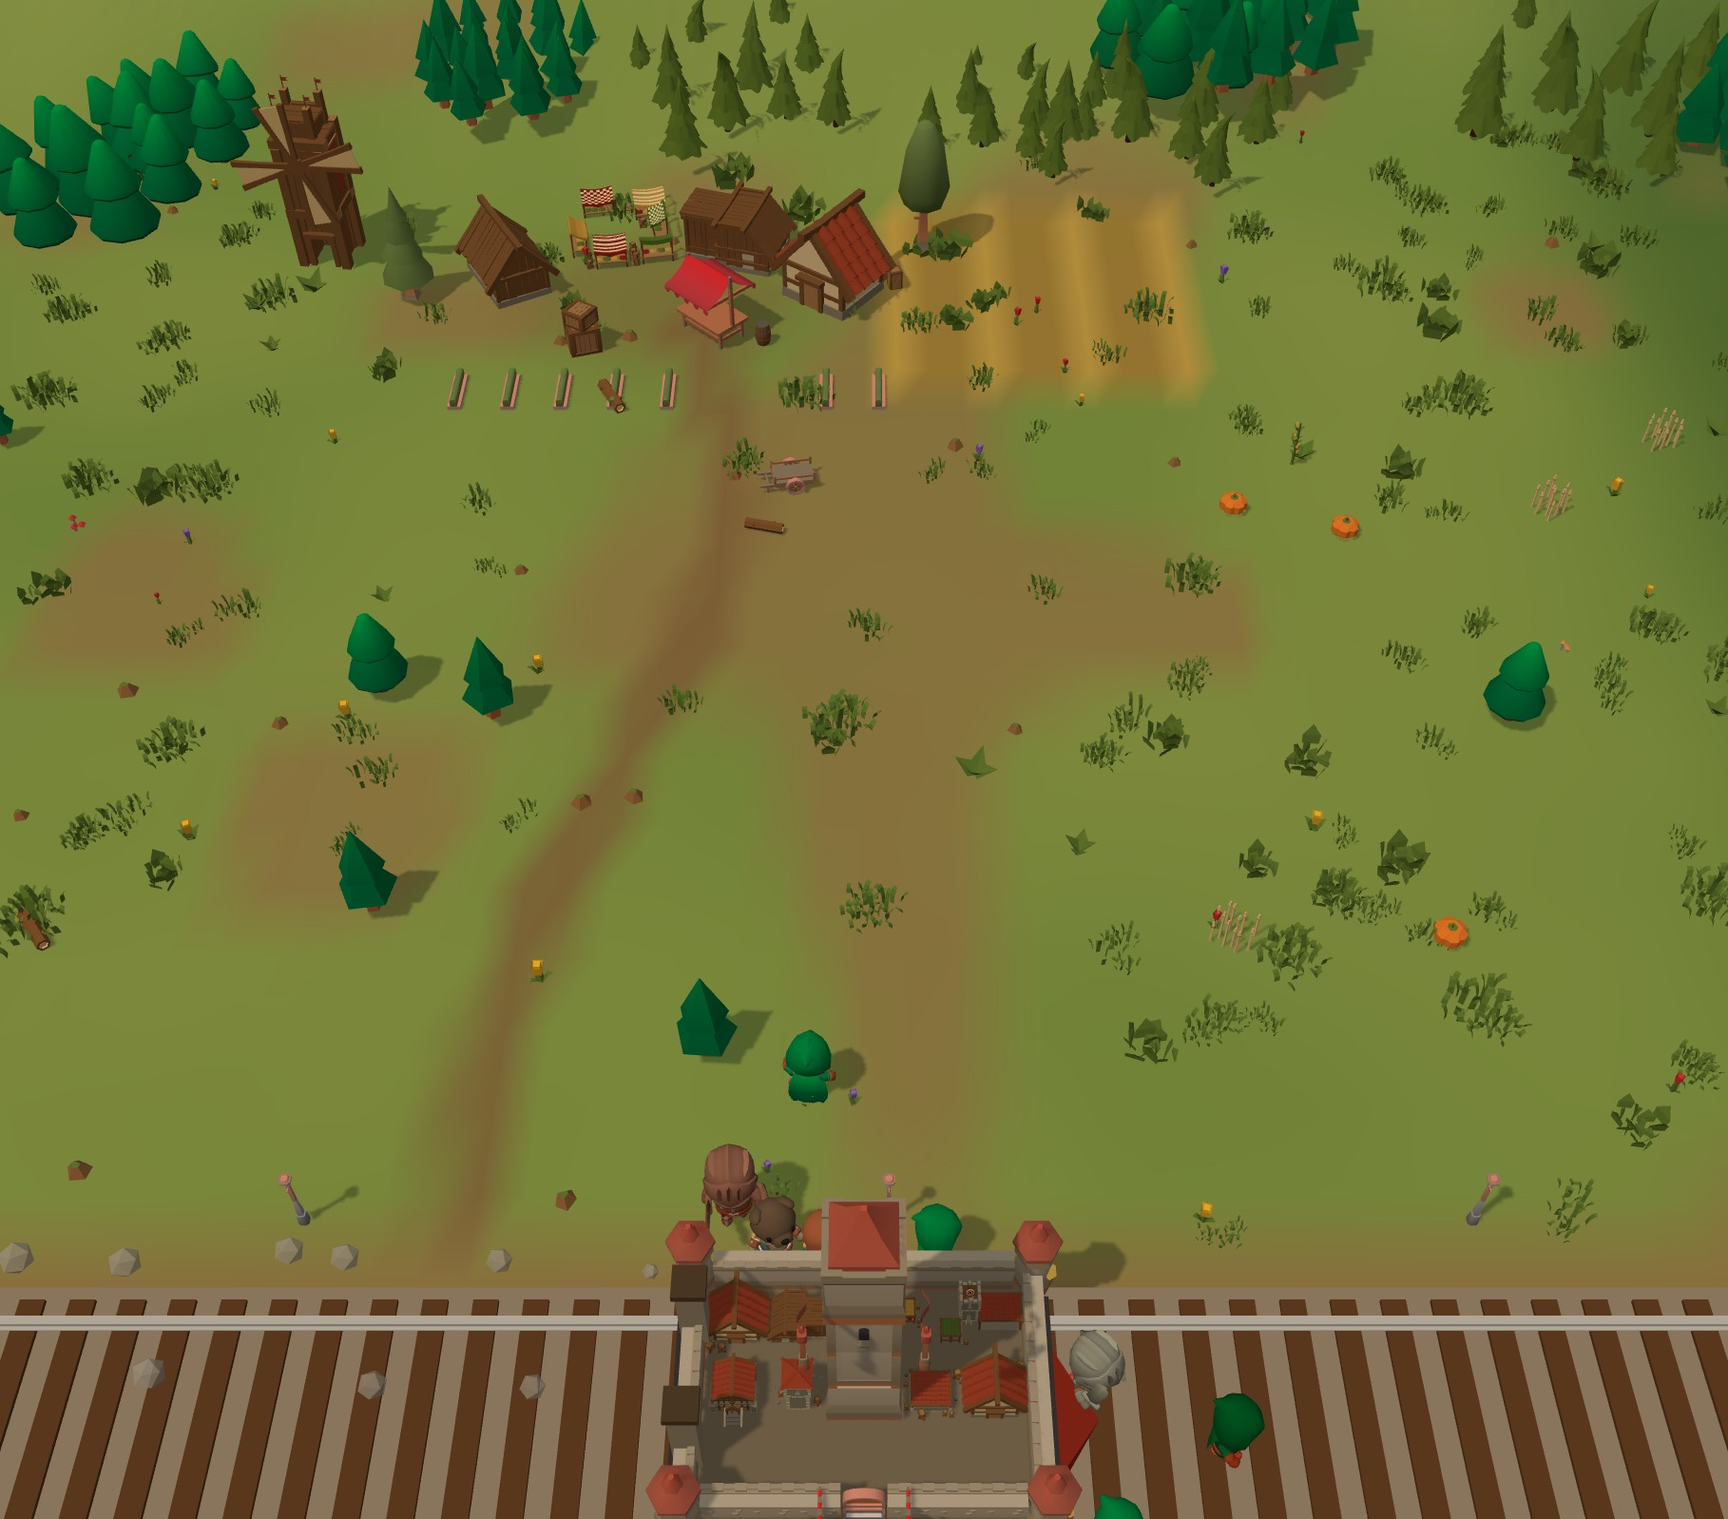
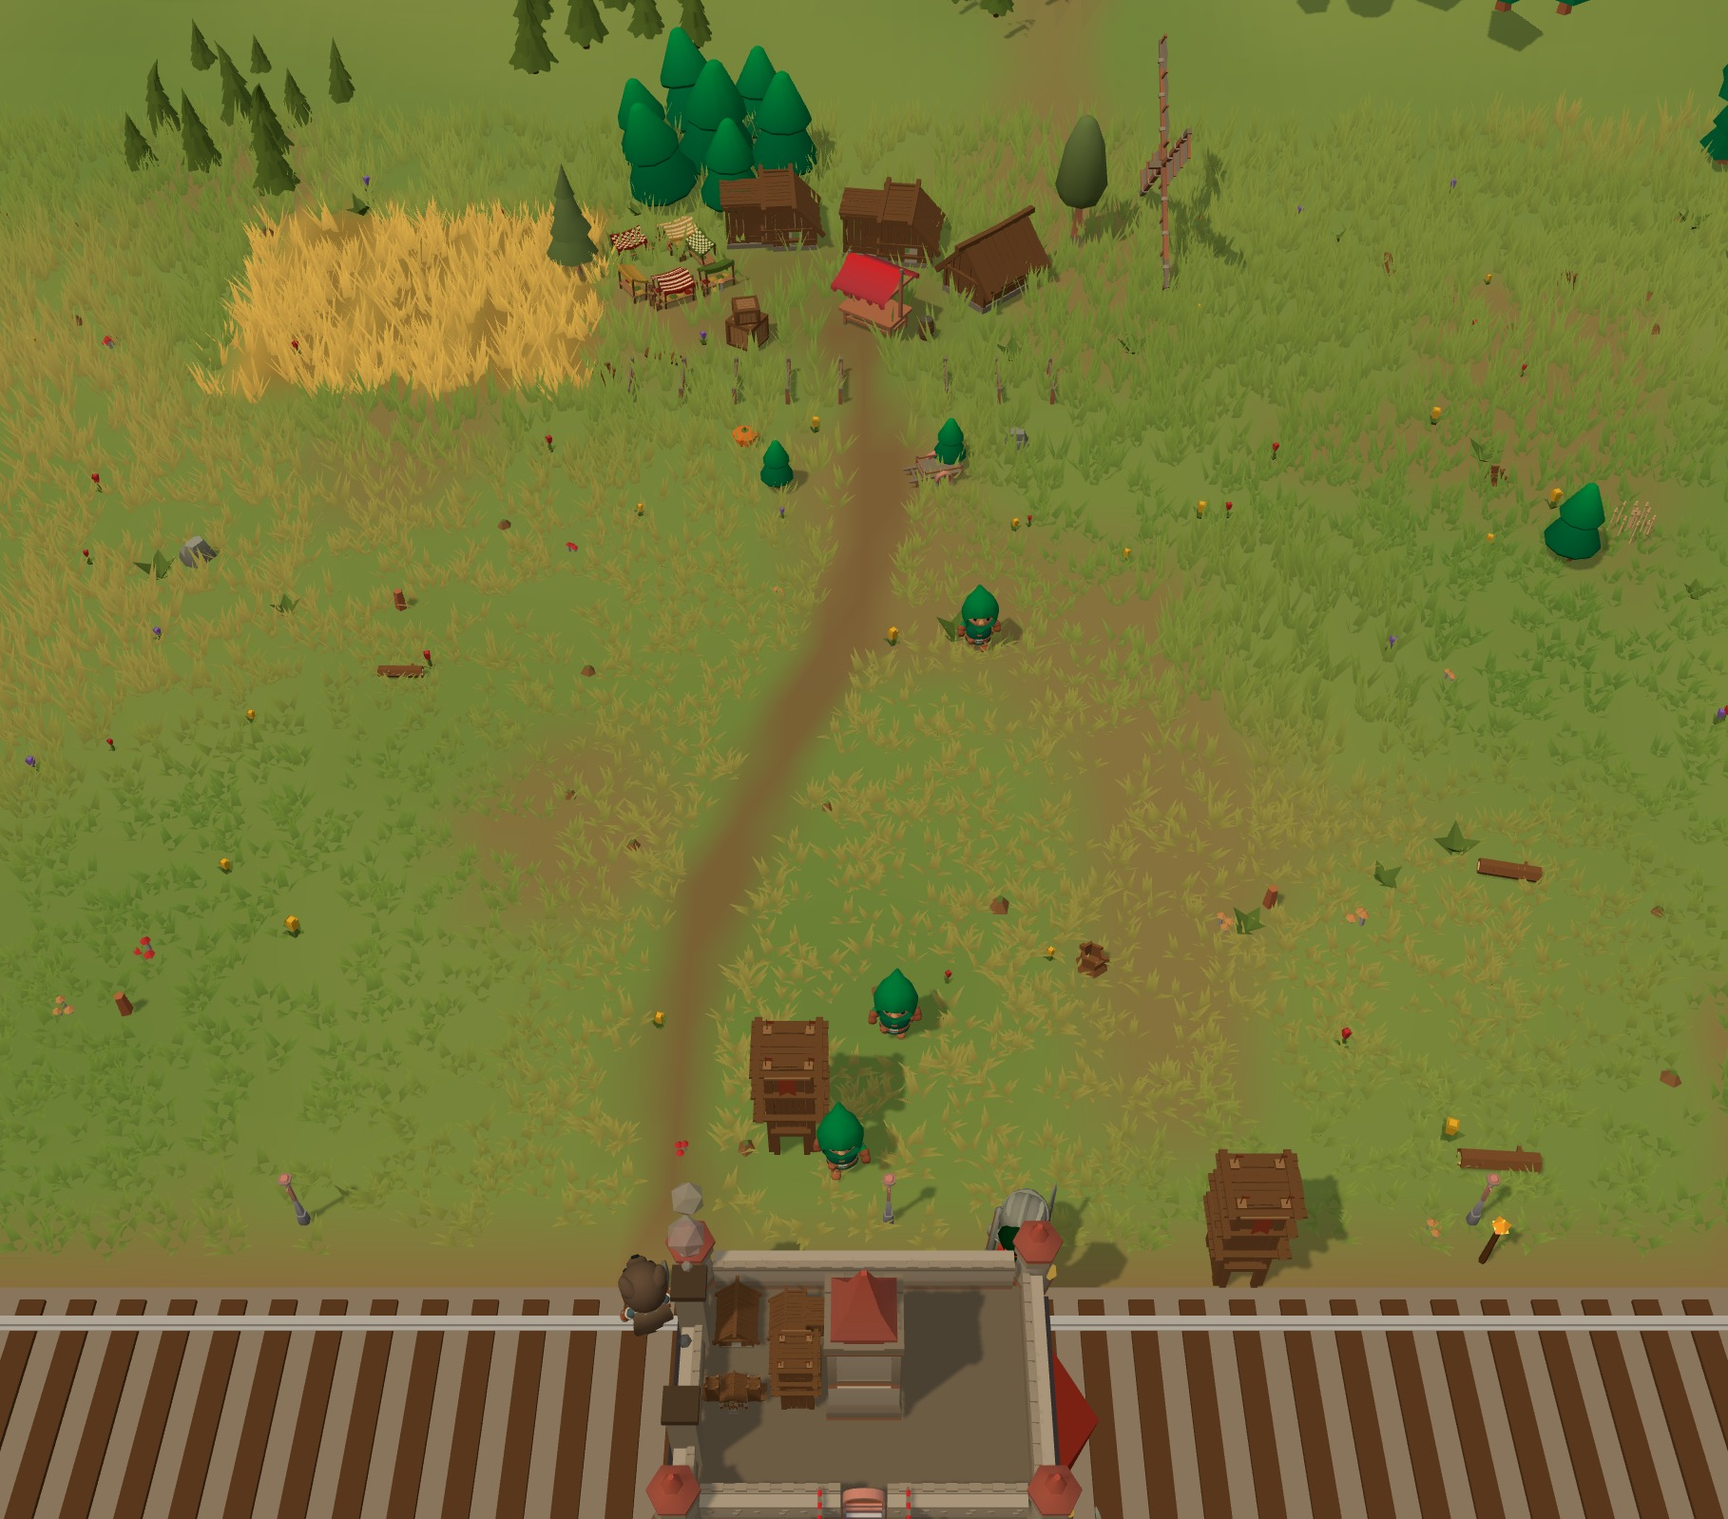
Full meadow: swaying instanced grass carpet
- New Grass (src/render/grass.ts): ~33k blade clumps of 7 triangles in one InstancedMesh,
  wind sway in the vertex shader, upward normals on both faces so blades never go black
- Short around the camp so units stay readable, taller and drier towards the edges and in
  meadow patches, golden wheat in crop fields; tracks, ploughed strips and village yards
  stay bare; sparse dry tufts in canyons
- Placement cached per chunk, five chunks around the camera with the outer two thinned;
  half density when shadows are off on weak devices
- Kenney grass tufts retired: the scene drops from ~1.1M to ~0.75M triangles while the
  ground is far more covered
- Updated screenshots and a new meadow shot

diff --git a/src/render/grass.ts b/src/render/grass.ts
@@ -1,0 +1,179 @@
+import * as THREE from 'three';
+import { BALANCE } from '../data/balance';
+import { hash01 } from '../sim/rng';
+import { chunkCenter } from '../sim/world';
+import { chunkLayout, noise, smooth, terrainHeight, terrainWeight, trackX } from './terrain';
+
+// A meadow carpet: thousands of cheap blade clumps (7 triangles each) in one InstancedMesh, swaying in the wind.
+// Short around the camp so units stay readable, taller towards the edges and in patches, golden in the wheat fields.
+// Placement is a pure function of seed and position, cached per chunk; weak devices get half the blades.
+
+const L = BALANCE.world.chunkLength;
+const PER_CHUNK = 11000; // clumps in a full-density chunk
+const RADIUS = 2; // chunks either side of the camera
+const RAIL = 3.8;
+
+function clumpGeometry(): THREE.BufferGeometry {
+  const pos: number[] = [];
+  const col: number[] = [];
+  const blades = 7;
+  for (let i = 0; i < blades; i++) {
+    const a = (i / blades) * Math.PI * 2 + i * 1.3;
+    const r = 0.06 + (i % 3) * 0.05;
+    const bx = Math.cos(a) * r;
+    const bz = Math.sin(a) * r;
+    const w = 0.09;
+    // Base edge across the blade, tip leaning outwards.
+    const px = -Math.sin(a) * w;
+    const pz = Math.cos(a) * w;
+    const lean = 0.22 + (i % 2) * 0.14;
+    const h = 0.75 + ((i * 37) % 10) / 40;
+    pos.push(bx - px, 0, bz - pz, bx + px, 0, bz + pz, bx + Math.cos(a) * lean, h, bz + Math.sin(a) * lean);
+    col.push(0.72, 0.72, 0.72, 0.72, 0.72, 0.72, 1.12, 1.12, 1.02);
+  }
+  const g = new THREE.BufferGeometry();
+  g.setAttribute('position', new THREE.Float32BufferAttribute(pos, 3));
+  g.setAttribute('color', new THREE.Float32BufferAttribute(col, 3));
+  // Normals straight up: blades light like the ground they grow from, with no dark backsides.
+  g.setAttribute('normal', new THREE.Float32BufferAttribute(new Array(pos.length).fill(0).map((_, k) => (k % 3 === 1 ? 1 : 0)), 3));
+  return g;
+}
+
+const COL = {
+  greenA: new THREE.Color(0x5f8a3c),
+  greenB: new THREE.Color(0x86a04e),
+  forest: new THREE.Color(0x4a6e34),
+  dry: new THREE.Color(0xa49a56),
+  wheat: new THREE.Color(0xd2b25a),
+  sand: new THREE.Color(0x9c9060),
+};
+
+interface ChunkGrass {
+  m: Float32Array; // 16 per clump
+  c: Float32Array; // 3 per clump
+  n: number;
+}
+
+export class Grass {
+  readonly mesh: THREE.InstancedMesh;
+  private uniforms = { uTime: { value: 0 } };
+  private cache = new Map<string, ChunkGrass>();
+  private key = '';
+
+  constructor(scene: THREE.Scene) {
+    const mat = new THREE.MeshLambertMaterial({ vertexColors: true, side: THREE.DoubleSide });
+    mat.onBeforeCompile = (shader) => {
+      shader.uniforms.uTime = this.uniforms.uTime;
+      shader.vertexShader = shader.vertexShader
+        .replace('#include <common>', '#include <common>\nuniform float uTime;')
+        .replace(
+          '#include <begin_vertex>',
+          `#include <begin_vertex>
+#ifdef USE_INSTANCING
+  vec3 root = instanceMatrix[3].xyz;
+  float gust = sin(uTime * 1.6 + root.x * 0.32 + root.z * 0.21) * 0.6 + sin(uTime * 3.1 + root.x * 1.3 - root.z * 0.7) * 0.25;
+  float bend = position.y * position.y;
+  transformed.x += gust * bend * 0.22;
+  transformed.z += gust * bend * 0.08;
+#endif`,
+        );
+      // Both faces of a blade keep the upward normal (three would flip it on back faces and turn them black).
+      shader.fragmentShader = shader.fragmentShader.replace(
+        '#include <normal_fragment_begin>',
+        'float faceDirection = 1.0;\nvec3 normal = normalize( vNormal );\nvec3 nonPerturbedNormal = normal;',
+      );
+    };
+    this.mesh = new THREE.InstancedMesh(clumpGeometry(), mat, Math.ceil(PER_CHUNK * (2 * RADIUS + 1)));
+    this.mesh.instanceMatrix.setUsage(THREE.DynamicDrawUsage);
+    this.mesh.instanceColor = new THREE.InstancedBufferAttribute(new Float32Array(this.mesh.instanceMatrix.count * 3), 3);
+    this.mesh.count = 0;
+    this.mesh.frustumCulled = false;
+    this.mesh.receiveShadow = true;
+    scene.add(this.mesh);
+  }
+
+  /** Refill when the camera crosses into another chunk (or the density changes); sway every frame. */
+  update(seed: number, camX: number, time: number, low: boolean): void {
+    this.uniforms.uTime.value = time;
+    const c0 = Math.round(camX / L);
+    const key = `${seed}:${c0}:${low}`;
+    if (key === this.key) return;
+    this.key = key;
+    if (this.cache.size > 24) this.cache.clear();
+    const mats = this.mesh.instanceMatrix.array as Float32Array;
+    const cols = this.mesh.instanceColor!.array as Float32Array;
+    let n = 0;
+    for (let k = c0 - RADIUS; k <= c0 + RADIUS; k++) {
+      const share = (Math.abs(k - c0) <= 1 ? 1 : 0.4) * (low ? 0.5 : 1);
+      const g = this.chunk(seed, k);
+      const take = Math.min(g.n, Math.floor(g.n * share));
+      // Clumps are stored in random order, so the first `take` are an even thinning.
+      mats.set(g.m.subarray(0, take * 16), n * 16);
+      cols.set(g.c.subarray(0, take * 3), n * 3);
+      n += take;
+    }
+    this.mesh.count = n;
+    this.mesh.instanceMatrix.needsUpdate = true;
+    this.mesh.instanceColor!.needsUpdate = true;
+  }
+
+  private chunk(seed: number, chunk: number): ChunkGrass {
+    const key = `${seed}:${chunk}`;
+    const hit = this.cache.get(key);
+    if (hit) return hit;
+    const m = new Float32Array(PER_CHUNK * 16);
+    const c = new Float32Array(PER_CHUNK * 3);
+    const x0 = chunkCenter(chunk) - L / 2;
+    const lay = chunkLayout(seed, chunk);
+    const v = lay.village;
+    const mat = new THREE.Matrix4();
+    const q = new THREE.Quaternion();
+    const up = new THREE.Vector3(0, 1, 0);
+    const p = new THREE.Vector3();
+    const s = new THREE.Vector3();
+    const col = new THREE.Color();
+    let n = 0;
+    for (let i = 0; i < PER_CHUNK; i++) {
+      const h = (salt: number) => hash01(seed, chunk, i, salt + 200);
+      const x = x0 + h(1) * L;
+      const z = (h(2) * 2 - 1) * 46;
+      const az = Math.abs(z);
+      if (az < RAIL) continue;
+      const cw = terrainWeight(seed, x, 'canyon');
+      if (cw > 0.5 && az > BALANCE.world.canyonCliffZ - 0.5) continue;
+      if (cw > 0.5 && h(3) > 0.45) continue; // thinner, dry tufts on the sandy canyon floor
+      // Keep the village track and the ploughed strips bare, thin out the trodden yard.
+      if (v && z > v.z + 1 && z < -RAIL && Math.abs(x - trackX(v, z)) < 1) continue;
+      if (v && Math.hypot(x - v.x, (z - v.z) * 1.3) < 6 && h(4) > 0.25) continue;
+      const field = lay.fields.find((f) => x >= Math.min(f.x0, f.x1) && x <= Math.max(f.x0, f.x1) && z >= f.z0 && z <= f.z1);
+      if (field && !field.crop) continue;
+      // Height: short in the play area, tall at the edges and in meadow patches; ripe wheat in crop fields.
+      const patch = az > 9 ? smooth((noise(seed, x, z, 11) - 0.6) * 5) : 0;
+      const tall = Math.max(smooth((az - 22) / 12), patch);
+      let height = 0.3 + h(5) * 0.2 + tall * (0.55 + h(6) * 0.45);
+      const forest = terrainWeight(seed, x, 'forest');
+      col.copy(COL.greenA).lerp(COL.greenB, noise(seed, x + 30, z, 7) * 0.8 + h(7) * 0.2);
+      if (forest > 0) col.lerp(COL.forest, forest * 0.8);
+      col.lerp(COL.dry, smooth((noise(seed, x, z - 40, 13) - 0.55) * 4) * 0.7 + tall * 0.15);
+      if (cw > 0) col.lerp(COL.sand, cw);
+      if (field) {
+        height = 0.95 + h(5) * 0.3;
+        col.copy(COL.wheat).multiplyScalar(0.9 + h(7) * 0.2);
+      }
+      const y = terrainHeight(seed, x, z) - 0.02;
+      p.set(x, y, z);
+      q.setFromAxisAngle(up, h(8) * Math.PI * 2);
+      const w = 0.8 + h(9) * 0.5 + tall * 0.3;
+      s.set(w, height, w);
+      mat.compose(p, q, s);
+      mat.toArray(m, n * 16);
+      c[n * 3] = col.r;
+      c[n * 3 + 1] = col.g;
+      c[n * 3 + 2] = col.b;
+      n++;
+    }
+    const out = { m, c, n };
+    this.cache.set(key, out);
+    return out;
+  }
+}

diff --git a/src/render/renderer.ts b/src/render/renderer.ts
@@ -4,6 +4,7 @@ import { isLit, lights, slotCount, SLOT_POS, type Sim } from '../sim/sim';
 import type { GameEvent, GameState, Vec } from '../sim/types';
 import { hash01 } from '../sim/rng';
 import { chunkCenter, chunkTerrain } from '../sim/world';
+import { Grass } from './grass';
 import { chunkLayout, Terrain, terrainHeight, trackX } from './terrain';
 import {
   castleGeometry,
@@ -209,6 +210,7 @@ export class GameRenderer {
   private sun: THREE.DirectionalLight;
   private pointLights: THREE.PointLight[] = [];
   private terrain: Terrain;
+  private grass: Grass;
   private decor = new Map<DecorName, Instanced>();
   private decorKey = '';
   private crops: Instanced[] = [];
@@ -274,6 +276,7 @@ export class GameRenderer {
     this.scene.fog = new THREE.Fog(0xaabfc6, 60, 140);
 
     this.terrain = new Terrain(this.scene);
+    this.grass = new Grass(this.scene);
     this.hemi = new THREE.HemisphereLight(0xf0e6d4, 0x5e4c34, 1.6);
     this.scene.add(this.hemi);
     this.sun = new THREE.DirectionalLight(0xffe4bc, 1.9);
@@ -730,6 +733,7 @@ export class GameRenderer {
     this.railway.position.x = Math.round(t.x);
 
     this.updateGround(s.seed, t.x);
+    this.grass.update(s.seed, t.x, this.time, !this.renderer.shadowMap.enabled);
 
     // Castle.
     const c = s.castle;
@@ -972,14 +976,15 @@ export class GameRenderer {
     for (const v of this.decor.values()) v.begin();
     const L = BALANCE.world.chunkLength;
     const pick: [DecorName, number][] = [
-      ['grass', 30], ['grassLarge', 14], ['grassLeafs', 10], ['flowerRed', 5], ['flowerYellow', 6], ['flowerPurple', 5],
+      ['flowerRed', 5], ['flowerYellow', 6], ['flowerPurple', 5],
       ['mushroomRed', 2], ['mushroomTan', 2], ['bushSmall', 6], ['pebble', 8], ['log', 1], ['stumpOld', 1],
     ];
     const total = pick.reduce((a, [, w]) => a + w, 0);
     for (let i = 0; i < 7; i++) {
       const chunk = first + i;
       const terrain = chunkTerrain(seed, chunk);
-      const count = terrain === 'forest' ? 520 : terrain === 'plains' ? 460 : 140;
+      // The meadow itself is the Grass carpet; these are the flowers, mushrooms and pebbles in it.
+      const count = terrain === 'forest' ? 220 : terrain === 'plains' ? 240 : 60;
       const maxZ = terrain === 'canyon' ? BALANCE.world.canyonCliffZ - 0.5 : 46;
       const x0 = chunkCenter(chunk) - L / 2;
       for (let k = 0; k < count; k++) {
@@ -988,7 +993,7 @@ export class GameRenderer {
         if (Math.abs(z) < 3.8) continue; // keep the railway bed clean
         const x = x0 + h(2) * L;
         let r = h(3) * total;
-        let name: DecorName = 'grass';
+        let name: DecorName = 'pebble';
         for (const [n, w] of pick) {
           r -= w;
           if (r < 0) {
@@ -999,14 +1004,7 @@ export class GameRenderer {
         if (terrain === 'canyon' && (name.startsWith('flower') || name.startsWith('mushroom'))) name = 'pebble';
         if (terrain === 'forest' && name === 'flowerYellow') name = 'mushroomTan';
         const sc = 0.75 + h(4) * 0.6;
-        const inst = this.decor.get(name)!;
-        // Grass grows in tufts of a few blades so it reads as patches, not noise.
-        const tuft = name.startsWith('grass') ? 3 : 1;
-        for (let j = 0; j < tuft; j++) {
-          const ox = j ? (h(6 + j) - 0.5) * 0.9 : 0;
-          const oz = j ? (h(9 + j) - 0.5) * 0.9 : 0;
-          inst.add(x + ox, terrainHeight(seed, x + ox, z + oz), z + oz, h(5) * Math.PI * 2 + j, sc * (1 - j * 0.15), sc * (1 - j * 0.15), sc * (1 - j * 0.15), 0xffffff);
-        }
+        this.decor.get(name)!.add(x, terrainHeight(seed, x, z), z, h(5) * Math.PI * 2, sc, sc, sc, 0xffffff);
       }
     }
     for (const v of this.decor.values()) v.end();

diff --git a/src/render/terrain.ts b/src/render/terrain.ts
@@ -14,7 +14,7 @@ const SEG_Z = 75;
 const PLAY_Z = 40; // flat area: monsters spawn at |z| = 37
 const RAIL_Z = 3.4;
 
-function smooth(t: number): number {
+export function smooth(t: number): number {
   const c = Math.min(1, Math.max(0, t));
   return c * c * (3 - 2 * c);
 }
@@ -35,7 +35,7 @@ export function noise(seed: number, x: number, z: number, scale: number): number
 }
 
 /** How much the ground at x is of one terrain type, blended over 8 units around chunk borders. */
-function terrainWeight(seed: number, x: number, type: TerrainType): number {
+export function terrainWeight(seed: number, x: number, type: TerrainType): number {
   const c = Math.round(x / L);
   const here = chunkTerrain(seed, c) === type ? 1 : 0;
   const edge = x - (chunkCenter(c) - L / 2);

diff --git a/src/render/models.ts b/src/render/models.ts
@@ -31,9 +31,6 @@ export type PropName =
   | 'groveB';
 
 export type DecorName =
-  | 'grass'
-  | 'grassLarge'
-  | 'grassLeafs'
   | 'flowerRed'
   | 'flowerYellow'
   | 'flowerPurple'
@@ -111,9 +108,6 @@ export interface Models {
 
 // Kenney Nature Kit pieces, sized for the scene.
 const DECOR_SIZE: Record<DecorName, ['h' | 'w', number]> = {
-  grass: ['h', 0.5],
-  grassLarge: ['h', 0.75],
-  grassLeafs: ['h', 0.55],
   flowerRed: ['h', 0.45],
   flowerYellow: ['h', 0.45],
   flowerPurple: ['h', 0.45],

diff --git a/public/sw.js b/public/sw.js
@@ -1,6 +1,6 @@
 // Offline cache (GDD v1.2 §18): pages are network-first so updates arrive, everything else is cache-first.
 // After the first full load the page tells us every asset it used, so the game then opens with no network.
-const CACHE = 'thanhtri-v4';
+const CACHE = 'thanhtri-v5';
 
 self.addEventListener('install', (event) => {
   event.waitUntil(caches.open(CACHE).then((c) => c.addAll(['./', './index.html', './manifest.webmanifest'])));

diff --git a/docs/TONG_QUAN.md b/docs/TONG_QUAN.md
@@ -188,7 +188,7 @@ Tòa thành là "pháo đài trên đường ray": sàn gỗ có bánh tàu, tư
 một tầng) và mỗi phòng là một ngôi nhà nhỏ trên sàn (gỗ ở tier 1, đá ở tier 2); ống khói đá nhả khói khi chạy. Tông
 màu trung cổ: cỏ ô-liu, đất nâu, gỗ sẫm, đá xám, mái đỏ gỉ; giao diện gỗ – da – viền đồng. Ngoài đồng có cối xay gió,
 ruộng lúa, mỏ đá, xác máy công thành; mỗi đoạn đường có một làng nhỏ với ruộng cày, ruộng lúa và đường đất
-xuống đường ray, cùng tàn tích tường thành cũ. Quân và quái không đi xuyên tường gỗ, vách đá hay lâu đài (kể cả khi
+xuống đường ray, cùng tàn tích tường thành cũ. Đồng cỏ phủ kín, lay theo gió (thấp quanh trại, cao ra xa, ruộng lúa vàng; máy yếu giảm một nửa). Quân và quái không đi xuyên tường gỗ, vách đá hay lâu đài (kể cả khi
 lâu đài đang chạy); cung thủ đứng sau lỗ châu mai trên tường. Ảnh chụp: [docs/screenshots](screenshots). Đêm có ánh trăng xanh, vùng sáng ấm, đuốc bập bùng; giao tranh có tên bay, chớp
 sáng khi trúng đòn, xác ngã. Giao diện cố tình ít chữ: biểu tượng và số, giải thích nằm trong tooltip. KayKit (Kay
 Lousberg) cho nhân vật, quái, cây, đá, đồi núi; Kenney (Nature, Castle, Fantasy Town Kit) cho cỏ, hoa, ruộng, tường

diff --git a/CREDITS.md b/CREDITS.md
@@ -23,7 +23,7 @@ Kenney!
 
 | Files used | Used in game as |
 | --- | --- |
-| `grass`, `grass_large`, `grass_leafs`, `flower_redA`, `flower_yellowA`, `flower_purpleA`, `mushroom_redGroup`, `mushroom_tanGroup`, `plant_bushSmall`, `rock_smallA`, `log`, `stump_old`, `campfire_logs` | Ground decoration (grass, flowers, mushrooms, pebbles, logs) |
+| `flower_redA`, `flower_yellowA`, `flower_purpleA`, `mushroom_redGroup`, `mushroom_tanGroup`, `plant_bushSmall`, `rock_smallA`, `log`, `stump_old`, `campfire_logs` | Ground decoration (flowers, mushrooms, pebbles, logs) |
 | `crop_pumpkin`, `crops_wheatStageB`, `crops_cornStageD` | Food fields (the food resource nodes) |
 
 ## Kenney Castle Kit and Fantasy Town Kit by Kenney
@@ -62,5 +62,5 @@ meshes so crowds can be drawn with instancing. To rebuild from the original down
 
 ## Everything else
 
-The ground terrain (with its ploughed fields, wheat and village tracks), railway, torches, the castle's timber deck,
+The ground terrain (with its ploughed fields and village tracks), the swaying meadow grass and wheat, railway, torches, the castle's timber deck,
 chimneys and wheels, effects, UI and sounds are made in code for this project. Built with [three.js](https://threejs.org) (MIT) and [Vite](https://vite.dev) (MIT).

diff --git a/README.md b/README.md
@@ -73,6 +73,8 @@ lên sàn thành. Lệnh tay đè lên việc tự động cho tới khi bấm *
   ngôi nhà nhỏ trên sàn (gỗ ở tier 1, đá ở tier 2). Mỗi đoạn đường có một làng nhỏ (nhà, chợ, hàng rào, cối xay) với
   ruộng cày, ruộng lúa và đường đất xuống đường ray; ngoài đồng có tàn tích tường thành, xác máy công thành, đèn lồng
   dọc tuyến, rừng thông trên đồi.
+- Đồng cỏ phủ kín bản đồ, lay theo gió: thấp quanh trại cho dễ nhìn quân, cao và khô dần ra xa, ruộng lúa vàng; máy
+  yếu tự giảm một nửa số cỏ. Vẽ hàng chục nghìn cụm cỏ chỉ trong một lần gọi vẽ.
 - Ảnh chụp trong game: [docs/screenshots](docs/screenshots) (trận đánh đêm, boss, quái, nhân vật, lâu đài, làng).
 - **KayKit** của Kay Lousberg (CC0): nhân vật, xương khô, tường gỗ, cây, đá, đồi núi.
 - **Kenney** (CC0): Nature Kit (cỏ, hoa, nấm, sỏi, ruộng), Castle Kit (tường, tháp, tháp chính, xác máy công thành),
